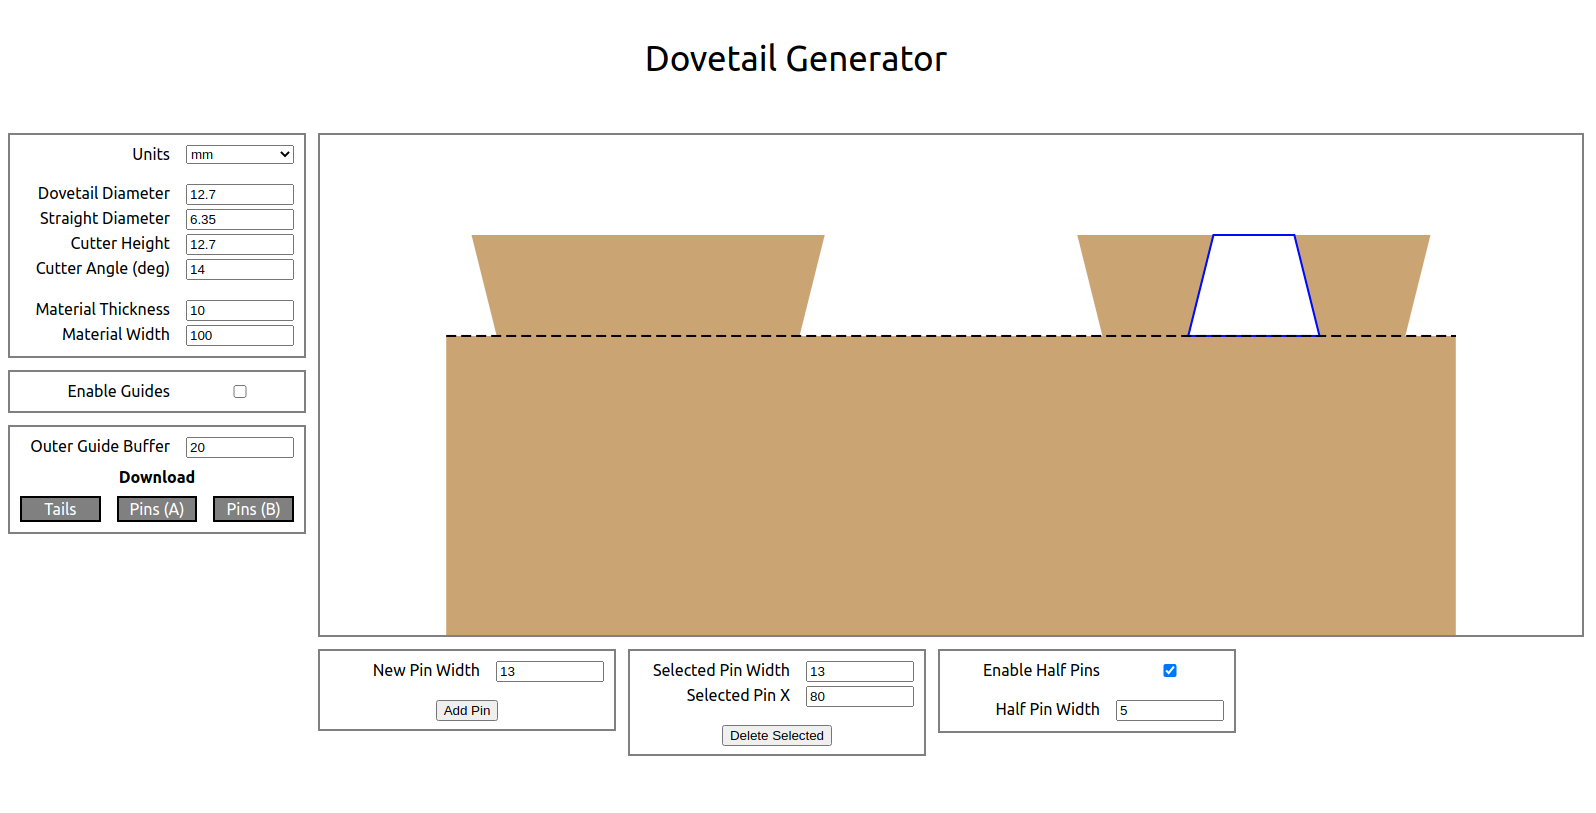
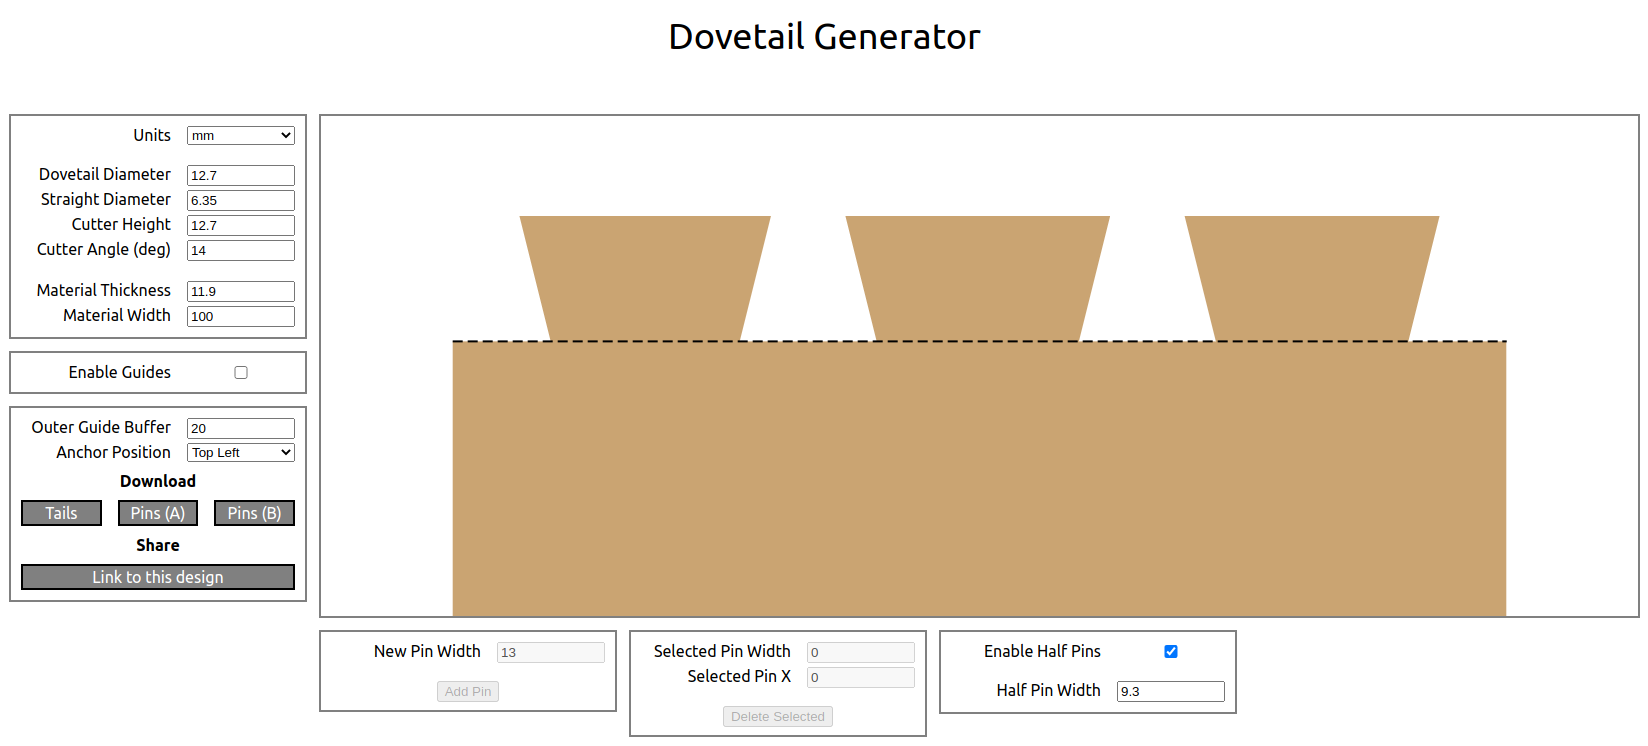
Instructions Update
This updates the instructions with the latest changes to the export
module.

diff --git a/src/Instructions.js b/src/Instructions.js
@@ -237,6 +237,27 @@ export default function Instructions() {
 					to align the template (more on this in the next section).
 				</p>
 
+				<h3>Custom Anchor Points</h3>
+				<p>
+					If you have Origin firmware Inverness or newer, you should
+					see a custom anchor point in the templates defined by the
+					small red triangle.  Simply align this anchor point with the
+					origin of your grid and you're ready to cut.  You can use
+					the Anchor Position selector to place this at the corner of
+					your stock that you intend to probe your grid at.
+				</p>
+
+				<h3>Share</h3>
+				<p>
+					At the bottom of the export module, you'll find the Share
+					section with a button that links to the current
+					design.  This link captures the entire state of the tool
+					at the time you click it, and you can use it to share
+					your design with others or bookmark it to come back to
+					a design later.  Keep in mind that this link changes every
+					time you update your design.
+				</p>
+
 				{/* eslint-disable-next-line */}
 				<a name="cutting" />
 				<h2>Cutting Procedure</h2>
@@ -378,24 +399,24 @@ export default function Instructions() {
 					there are a few features left that I'm still planning to
 					implement in the next month or so before I stop working on
 					it in earnest.  Namely:
-					<ol>
-						<li>
-							An auto-layout tool that will allow you to easily
-							create evenly spaced layouts.
-						</li>
-						<li>
-							A mirrored layout tool that will mirror one side
-							of the layout to the other to create a perfectly
-							symmetrical layout.
-						</li>
-						<li>
-							Support for half-blind dovetails.  This is
-							conceptually not too difficult, I just need to
-							sit down and work out the math to get all the cut
-							lengths correct one of these days.
-						</li>
-					</ol>
 				</p>
+				<ol>
+					<li>
+						An auto-layout tool that will allow you to easily
+						create evenly spaced layouts.
+					</li>
+					<li>
+						A mirrored layout tool that will mirror one side
+						of the layout to the other to create a perfectly
+						symmetrical layout.
+					</li>
+					<li>
+						Support for half-blind dovetails.  This is
+						conceptually not too difficult, I just need to
+						sit down and work out the math to get all the cut
+						lengths correct one of these days.
+					</li>
+				</ol>
 			</div>
 		</div>
 	);
